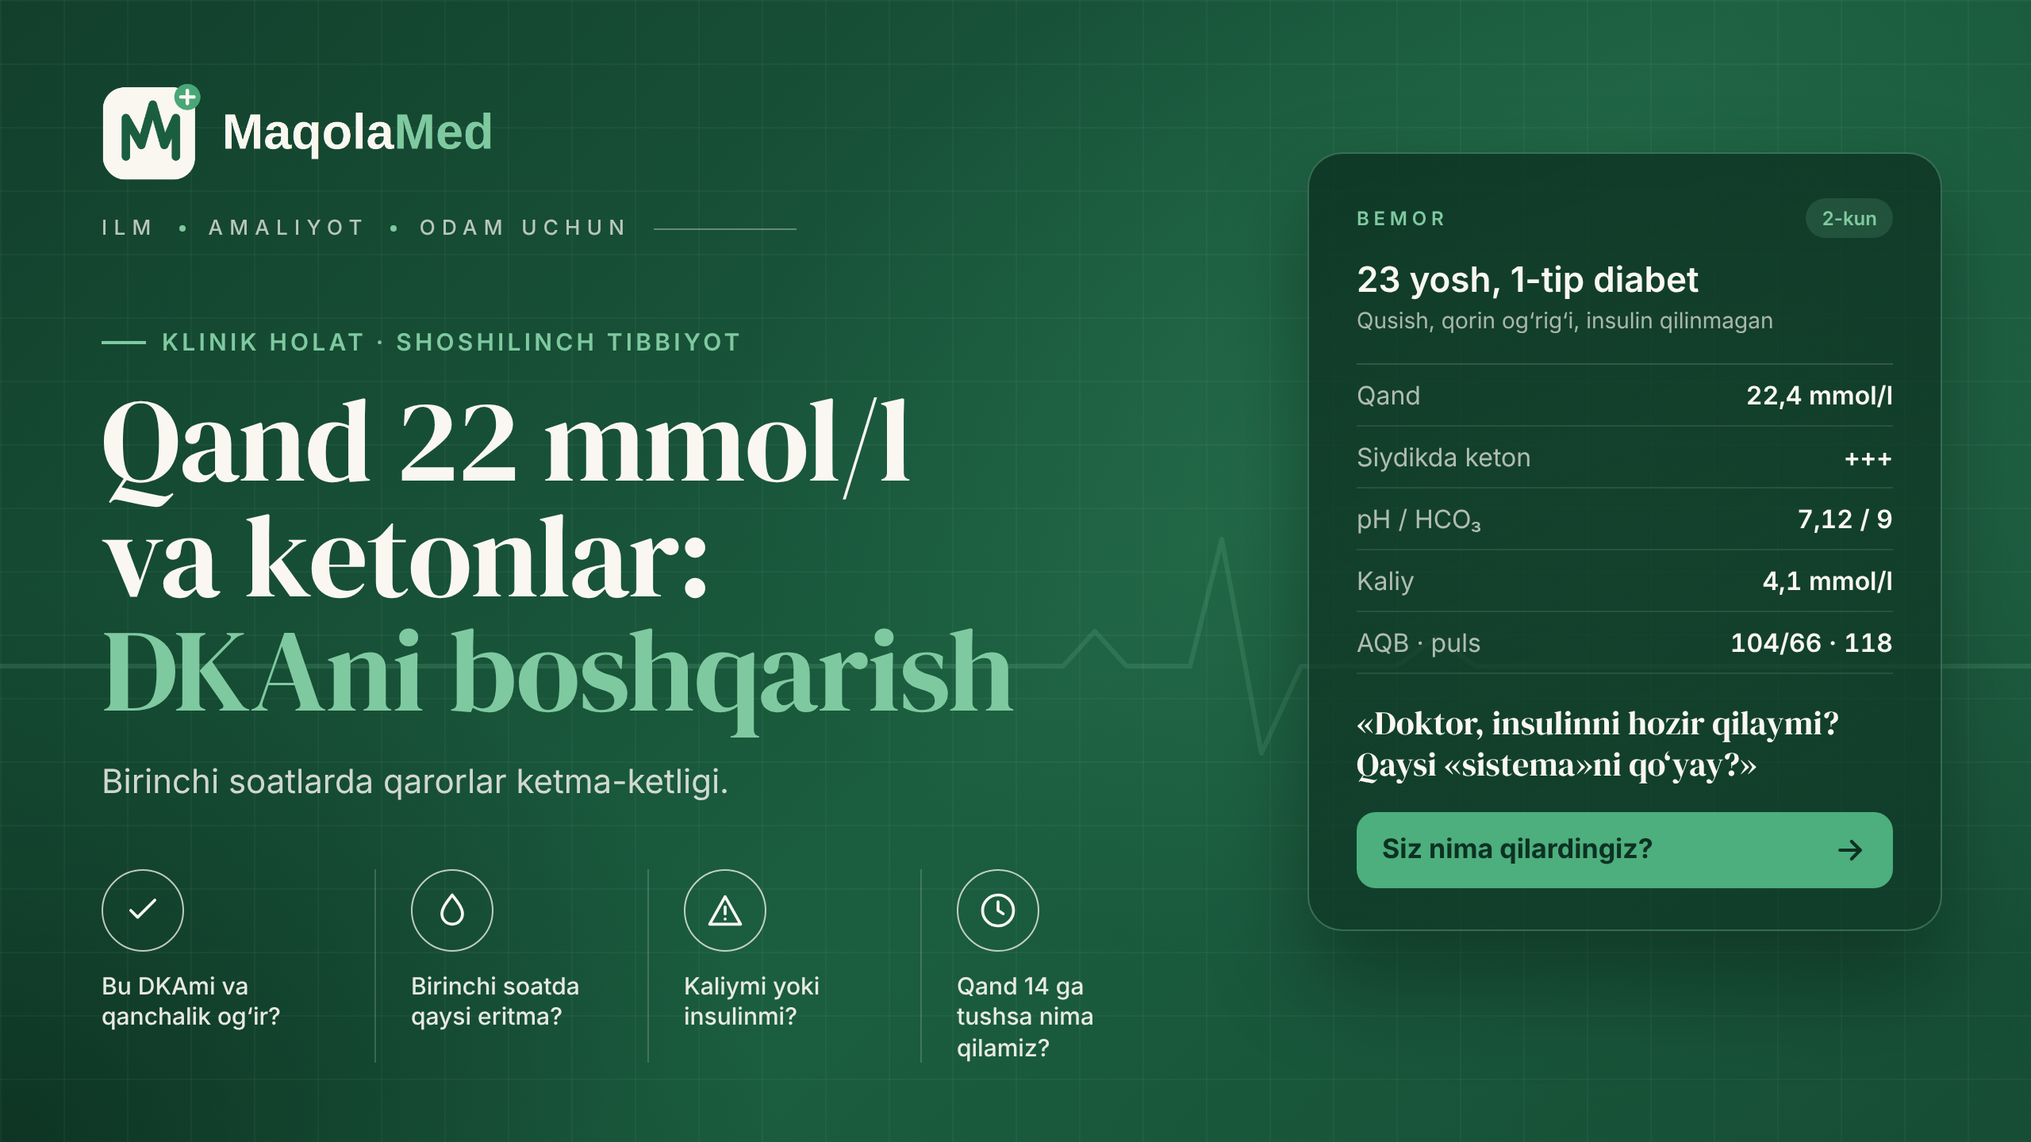
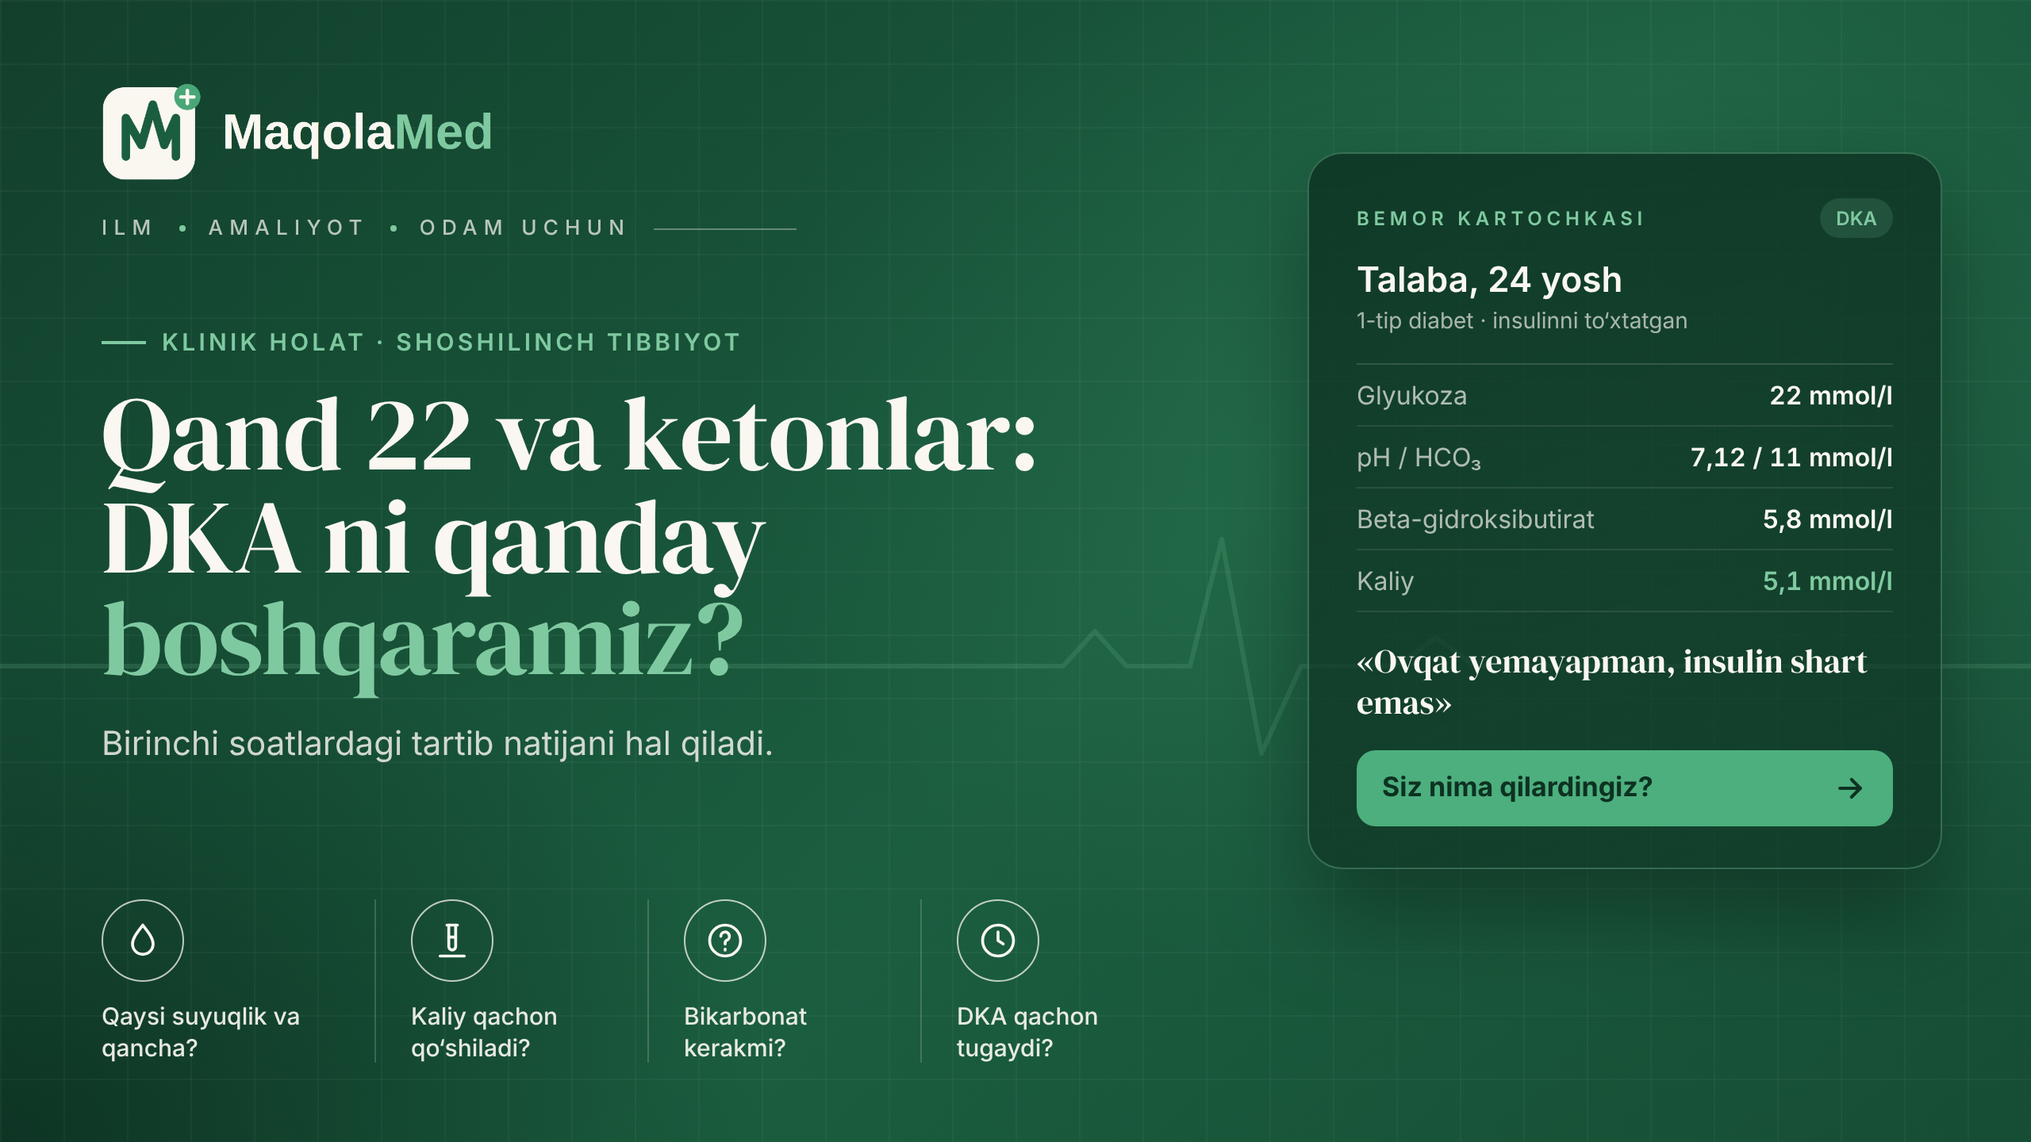
15-dekabr maqolasi qayta yozildi (v2, humanizer): diabetik ketoatsidoz — muqovalar, 1 rasm

diff --git a/_manba/2026-12-15/muqova-instagram-4x5.html b/_manba/2026-12-15/muqova-instagram-4x5.html
@@ -1,0 +1,87 @@
+<!doctype html>
+<html lang="uz">
+<head><base href="file:///home/claude/maqolamed-rasmlar/_shablon/">
+<meta charset="utf-8">
+<style>
+@font-face{font-family:"DM Serif Display";src:url("fonts/dm-serif-display-latin-400-normal.woff2") format("woff2");}
+@font-face{font-family:"DM Serif Display";src:url("fonts/dm-serif-display-latin-ext-400-normal.woff2") format("woff2");unicode-range:U+0100-024F,U+1E00-1EFF;}
+:root{
+  --emerald:#1B5E3F; --deep:#0D3122; --cream:#FAF7F0; --mint:#7FC9A0; --green:#4CAF7D;
+}
+*{margin:0;padding:0;box-sizing:border-box}
+html,body{width:1280px;height:720px;overflow:hidden;background:var(--deep)}
+.cover{position:relative;width:1280px;height:720px;overflow:hidden;font-family:"Inter",sans-serif;color:var(--cream);
+  background:
+    radial-gradient(900px 600px at 78% 40%, rgba(76,175,125,.22), transparent 60%),
+    radial-gradient(700px 500px at 0% 100%, rgba(13,49,34,.9), transparent 70%),
+    linear-gradient(135deg,#123F2C 0%, #1B5E3F 55%, #164D34 100%);}
+.grid{position:absolute;inset:0;background-image:
+    linear-gradient(rgba(250,247,240,.035) 1px,transparent 1px),
+    linear-gradient(90deg,rgba(250,247,240,.035) 1px,transparent 1px);
+  background-size:40px 40px;}
+.ekg{position:absolute;left:0;top:300px;width:1280px;height:200px;opacity:.16}
+.left{position:absolute;left:64px;top:52px;width:690px}
+.brand{display:flex;align-items:center;gap:28px}
+.brand img{height:62px;display:block}
+.tag{display:flex;align-items:center;gap:14px;font-size:13px;letter-spacing:.32em;color:rgba(250,247,240,.72);font-weight:500}
+.tag i{width:4px;height:4px;border-radius:50%;background:var(--mint);display:inline-block}
+.tag .line{width:90px;height:1px;background:rgba(250,247,240,.35)}
+.kicker{margin-top:54px;display:inline-flex;align-items:center;gap:10px;font-size:15px;font-weight:600;letter-spacing:.14em;text-transform:uppercase;color:var(--mint)}
+.kicker span{display:inline-block;width:28px;height:2px;background:var(--mint)}
+h1{margin-top:16px;font-family:"DM Serif Display",serif;font-weight:400;font-size:78px;line-height:.98;letter-spacing:-.01em;color:var(--cream)}
+h1 em{font-style:normal;color:var(--mint)}
+.sub{margin-top:22px;font-size:21px;color:rgba(250,247,240,.82);font-weight:400}
+.points{position:absolute;left:64px;bottom:50px;display:flex;gap:0}
+.pt{width:172px;padding-right:18px;display:flex;flex-direction:column;align-items:flex-start;gap:12px}
+.pt + .pt{padding-left:22px;border-left:1px solid rgba(250,247,240,.18)}
+.ic{width:52px;height:52px;border-radius:50%;border:1.6px solid rgba(250,247,240,.75);display:grid;place-items:center}
+.ic svg{width:26px;height:26px;stroke:var(--cream);fill:none;stroke-width:1.7;stroke-linecap:round;stroke-linejoin:round}
+.pt p{font-size:15px;line-height:1.3;color:rgba(250,247,240,.92);font-weight:500}
+.card{position:absolute;right:56px;top:96px;width:400px;border-radius:22px;padding:28px 30px 26px;
+  background:linear-gradient(160deg,rgba(13,49,34,.82),rgba(13,49,34,.62));
+  border:1px solid rgba(127,201,160,.35);box-shadow:0 30px 60px rgba(0,0,0,.35)}
+.card .ch{display:flex;justify-content:space-between;align-items:center}
+.card .lbl{font-size:12px;letter-spacing:.24em;font-weight:600;color:var(--mint)}
+.card .pill{font-size:12px;font-weight:600;padding:5px 10px;border-radius:999px;background:rgba(127,201,160,.16);color:var(--mint)}
+.card h3{margin-top:14px;font-size:22px;font-weight:600}
+.card h3 small{display:block;margin-top:4px;font-size:14px;font-weight:400;color:rgba(250,247,240,.65)}
+.rows{margin-top:18px;border-top:1px solid rgba(250,247,240,.14)}
+.row{display:flex;justify-content:space-between;padding:9px 0;border-bottom:1px solid rgba(250,247,240,.10);font-size:16px}
+.row span:first-child{color:rgba(250,247,240,.68)}
+.row span:last-child{font-weight:600;font-variant-numeric:tabular-nums}
+.row .ok{color:var(--mint)}
+.quote{margin-top:18px;font-family:"DM Serif Display",serif;font-size:21px;line-height:1.25;color:var(--cream)}
+.ask{margin-top:16px;display:flex;align-items:center;justify-content:space-between;padding:13px 16px;border-radius:12px;background:var(--green);color:#0D3122;font-weight:700;font-size:17px}
+.ask svg{width:22px;height:22px;stroke:#0D3122;fill:none;stroke-width:2.2;stroke-linecap:round;stroke-linejoin:round}
+
+html,body{width:1080px;height:1350px}
+.cover{width:1080px;height:1350px}
+.ekg{top:525px;width:1080px}
+.left{left:72px;top:64px;width:940px}
+.brand img{height:72px}
+h1{font-size:96px;margin-top:18px}
+.kicker{margin-top:56px;font-size:17px}
+.sub{font-size:24px}
+.card{left:72px;right:72px;top:auto;bottom:250px;width:auto;padding:30px 34px}
+.rows{display:grid;grid-template-columns:1fr 1fr;column-gap:40px}
+.quote{font-size:24px}
+.points{left:72px;right:72px;bottom:60px}
+.pt{width:auto;flex:1}
+.pt p{font-size:17px}
+
+
+
+h1{font-size:88px}
+</style>
+</head>
+<body><div class="cover"><div class="grid"></div>
+<svg class="ekg" viewBox="0 0 1280 200" preserveAspectRatio="none"><polyline fill="none" stroke="#7FC9A0" stroke-width="3" stroke-linejoin="round" stroke-linecap="round" points="0,120 640,120 670,120 690,98 710,120 750,120 770,40 795,175 820,120 880,120 905,102 930,120 1280,120"/></svg>
+<div class="left"><div class="brand"><img src="logo_dark_bg.png" alt="MaqolaMed"></div>
+<div class="tag" style="margin-top:22px"><span>ILM</span><i></i><span>AMALIYOT</span><i></i><span>ODAM UCHUN</span><span class="line"></span></div>
+<div class="kicker"><span></span>Klinik holat · Shoshilinch tibbiyot</div>
+<h1>Qand 22 va ketonlar:<br>DKA ni qanday<br><em>boshqaramiz?</em></h1>
+<div class="sub">Birinchi soatlardagi tartib natijani hal qiladi.</div></div>
+<div class="points"><div class="pt"><div class="ic"><svg viewBox="0 0 24 24"><path d="M12 3c3 4 6 7.5 6 11a6 6 0 0 1-12 0c0-3.5 3-7 6-11z"/></svg></div><p>Qaysi suyuqlik va qancha?</p></div><div class="pt"><div class="ic"><svg viewBox="0 0 24 24"><path d="M9 3h6"/><path d="M10 3v12.5a2 2 0 0 0 4 0V3"/><path d="M10 10h4"/><path d="M5 21h14"/></svg></div><p>Kaliy qachon qo‘shiladi?</p></div><div class="pt"><div class="ic"><svg viewBox="0 0 24 24"><circle cx="12" cy="12" r="9"/><path d="M9.5 9.5a2.5 2.5 0 1 1 3.5 2.3c-.7.3-1 .8-1 1.5v.7"/><path d="M12 17v.5"/></svg></div><p>Bikarbonat kerakmi?</p></div><div class="pt"><div class="ic"><svg viewBox="0 0 24 24"><circle cx="12" cy="12" r="9"/><path d="M12 7v5l3 2"/></svg></div><p>DKA qachon tugaydi?</p></div></div>
+<div class="card"><div class="ch"><span class="lbl">BEMOR KARTOCHKASI</span><span class="pill">DKA</span></div>
+<h3>Talaba, 24 yosh<small>1-tip diabet · insulinni to‘xtatgan</small></h3><div class="rows"><div class="row"><span>Glyukoza</span><span class="">22 mmol/l</span></div><div class="row"><span>pH / HCO₃</span><span class="">7,12 / 11 mmol/l</span></div><div class="row"><span>Beta-gidroksibutirat</span><span class="">5,8 mmol/l</span></div><div class="row"><span>Kaliy</span><span class="ok">5,1 mmol/l</span></div></div><div class="quote">«Ovqat yemayapman, insulin shart emas»</div><div class="ask">Siz nima qilardingiz?<svg viewBox="0 0 24 24"><path d="M5 12h14"/><path d="M13 6l6 6-6 6"/></svg></div></div>
+</div></body></html>

diff --git a/_manba/2026-12-15/muqova-16x9.html b/_manba/2026-12-15/muqova-16x9.html
@@ -1,0 +1,70 @@
+<!doctype html>
+<html lang="uz">
+<head><base href="file:///home/claude/maqolamed-rasmlar/_shablon/">
+<meta charset="utf-8">
+<style>
+@font-face{font-family:"DM Serif Display";src:url("fonts/dm-serif-display-latin-400-normal.woff2") format("woff2");}
+@font-face{font-family:"DM Serif Display";src:url("fonts/dm-serif-display-latin-ext-400-normal.woff2") format("woff2");unicode-range:U+0100-024F,U+1E00-1EFF;}
+:root{
+  --emerald:#1B5E3F; --deep:#0D3122; --cream:#FAF7F0; --mint:#7FC9A0; --green:#4CAF7D;
+}
+*{margin:0;padding:0;box-sizing:border-box}
+html,body{width:1280px;height:720px;overflow:hidden;background:var(--deep)}
+.cover{position:relative;width:1280px;height:720px;overflow:hidden;font-family:"Inter",sans-serif;color:var(--cream);
+  background:
+    radial-gradient(900px 600px at 78% 40%, rgba(76,175,125,.22), transparent 60%),
+    radial-gradient(700px 500px at 0% 100%, rgba(13,49,34,.9), transparent 70%),
+    linear-gradient(135deg,#123F2C 0%, #1B5E3F 55%, #164D34 100%);}
+.grid{position:absolute;inset:0;background-image:
+    linear-gradient(rgba(250,247,240,.035) 1px,transparent 1px),
+    linear-gradient(90deg,rgba(250,247,240,.035) 1px,transparent 1px);
+  background-size:40px 40px;}
+.ekg{position:absolute;left:0;top:300px;width:1280px;height:200px;opacity:.16}
+.left{position:absolute;left:64px;top:52px;width:690px}
+.brand{display:flex;align-items:center;gap:28px}
+.brand img{height:62px;display:block}
+.tag{display:flex;align-items:center;gap:14px;font-size:13px;letter-spacing:.32em;color:rgba(250,247,240,.72);font-weight:500}
+.tag i{width:4px;height:4px;border-radius:50%;background:var(--mint);display:inline-block}
+.tag .line{width:90px;height:1px;background:rgba(250,247,240,.35)}
+.kicker{margin-top:54px;display:inline-flex;align-items:center;gap:10px;font-size:15px;font-weight:600;letter-spacing:.14em;text-transform:uppercase;color:var(--mint)}
+.kicker span{display:inline-block;width:28px;height:2px;background:var(--mint)}
+h1{margin-top:16px;font-family:"DM Serif Display",serif;font-weight:400;font-size:78px;line-height:.98;letter-spacing:-.01em;color:var(--cream)}
+h1 em{font-style:normal;color:var(--mint)}
+.sub{margin-top:22px;font-size:21px;color:rgba(250,247,240,.82);font-weight:400}
+.points{position:absolute;left:64px;bottom:50px;display:flex;gap:0}
+.pt{width:172px;padding-right:18px;display:flex;flex-direction:column;align-items:flex-start;gap:12px}
+.pt + .pt{padding-left:22px;border-left:1px solid rgba(250,247,240,.18)}
+.ic{width:52px;height:52px;border-radius:50%;border:1.6px solid rgba(250,247,240,.75);display:grid;place-items:center}
+.ic svg{width:26px;height:26px;stroke:var(--cream);fill:none;stroke-width:1.7;stroke-linecap:round;stroke-linejoin:round}
+.pt p{font-size:15px;line-height:1.3;color:rgba(250,247,240,.92);font-weight:500}
+.card{position:absolute;right:56px;top:96px;width:400px;border-radius:22px;padding:28px 30px 26px;
+  background:linear-gradient(160deg,rgba(13,49,34,.82),rgba(13,49,34,.62));
+  border:1px solid rgba(127,201,160,.35);box-shadow:0 30px 60px rgba(0,0,0,.35)}
+.card .ch{display:flex;justify-content:space-between;align-items:center}
+.card .lbl{font-size:12px;letter-spacing:.24em;font-weight:600;color:var(--mint)}
+.card .pill{font-size:12px;font-weight:600;padding:5px 10px;border-radius:999px;background:rgba(127,201,160,.16);color:var(--mint)}
+.card h3{margin-top:14px;font-size:22px;font-weight:600}
+.card h3 small{display:block;margin-top:4px;font-size:14px;font-weight:400;color:rgba(250,247,240,.65)}
+.rows{margin-top:18px;border-top:1px solid rgba(250,247,240,.14)}
+.row{display:flex;justify-content:space-between;padding:9px 0;border-bottom:1px solid rgba(250,247,240,.10);font-size:16px}
+.row span:first-child{color:rgba(250,247,240,.68)}
+.row span:last-child{font-weight:600;font-variant-numeric:tabular-nums}
+.row .ok{color:var(--mint)}
+.quote{margin-top:18px;font-family:"DM Serif Display",serif;font-size:21px;line-height:1.25;color:var(--cream)}
+.ask{margin-top:16px;display:flex;align-items:center;justify-content:space-between;padding:13px 16px;border-radius:12px;background:var(--green);color:#0D3122;font-weight:700;font-size:17px}
+.ask svg{width:22px;height:22px;stroke:#0D3122;fill:none;stroke-width:2.2;stroke-linecap:round;stroke-linejoin:round}
+
+h1{font-size:66px}
+</style>
+</head>
+<body><div class="cover"><div class="grid"></div>
+<svg class="ekg" viewBox="0 0 1280 200" preserveAspectRatio="none"><polyline fill="none" stroke="#7FC9A0" stroke-width="3" stroke-linejoin="round" stroke-linecap="round" points="0,120 640,120 670,120 690,98 710,120 750,120 770,40 795,175 820,120 880,120 905,102 930,120 1280,120"/></svg>
+<div class="left"><div class="brand"><img src="logo_dark_bg.png" alt="MaqolaMed"></div>
+<div class="tag" style="margin-top:22px"><span>ILM</span><i></i><span>AMALIYOT</span><i></i><span>ODAM UCHUN</span><span class="line"></span></div>
+<div class="kicker"><span></span>Klinik holat · Shoshilinch tibbiyot</div>
+<h1>Qand 22 va ketonlar:<br>DKA ni qanday<br><em>boshqaramiz?</em></h1>
+<div class="sub">Birinchi soatlardagi tartib natijani hal qiladi.</div></div>
+<div class="points"><div class="pt"><div class="ic"><svg viewBox="0 0 24 24"><path d="M12 3c3 4 6 7.5 6 11a6 6 0 0 1-12 0c0-3.5 3-7 6-11z"/></svg></div><p>Qaysi suyuqlik va qancha?</p></div><div class="pt"><div class="ic"><svg viewBox="0 0 24 24"><path d="M9 3h6"/><path d="M10 3v12.5a2 2 0 0 0 4 0V3"/><path d="M10 10h4"/><path d="M5 21h14"/></svg></div><p>Kaliy qachon qo‘shiladi?</p></div><div class="pt"><div class="ic"><svg viewBox="0 0 24 24"><circle cx="12" cy="12" r="9"/><path d="M9.5 9.5a2.5 2.5 0 1 1 3.5 2.3c-.7.3-1 .8-1 1.5v.7"/><path d="M12 17v.5"/></svg></div><p>Bikarbonat kerakmi?</p></div><div class="pt"><div class="ic"><svg viewBox="0 0 24 24"><circle cx="12" cy="12" r="9"/><path d="M12 7v5l3 2"/></svg></div><p>DKA qachon tugaydi?</p></div></div>
+<div class="card"><div class="ch"><span class="lbl">BEMOR KARTOCHKASI</span><span class="pill">DKA</span></div>
+<h3>Talaba, 24 yosh<small>1-tip diabet · insulinni to‘xtatgan</small></h3><div class="rows"><div class="row"><span>Glyukoza</span><span class="">22 mmol/l</span></div><div class="row"><span>pH / HCO₃</span><span class="">7,12 / 11 mmol/l</span></div><div class="row"><span>Beta-gidroksibutirat</span><span class="">5,8 mmol/l</span></div><div class="row"><span>Kaliy</span><span class="ok">5,1 mmol/l</span></div></div><div class="quote">«Ovqat yemayapman, insulin shart emas»</div><div class="ask">Siz nima qilardingiz?<svg viewBox="0 0 24 24"><path d="M5 12h14"/><path d="M13 6l6 6-6 6"/></svg></div></div>
+</div></body></html>

diff --git a/_manba/2026-12-15/1-rasm.html b/_manba/2026-12-15/1-rasm.html
@@ -1,0 +1,53 @@
+<!doctype html><html lang="uz"><head><meta charset="utf-8"><base href="file:///home/claude/maqolamed-rasmlar/_shablon/">
+<style>
+@font-face{font-family:"DM Serif Display";src:url("fonts/dm-serif-display-latin-400-normal.woff2") format("woff2");}
+@font-face{font-family:"DM Serif Display";src:url("fonts/dm-serif-display-latin-ext-400-normal.woff2") format("woff2");unicode-range:U+0100-024F,U+1E00-1EFF;}
+:root{--emerald:#1B5E3F;--deep:#0D3122;--cream:#FAF7F0;--mint:#7FC9A0;--green:#4CAF7D;--ink:#17322A;--muted:#5C6F66;--amber:#C98A2E;--amberbg:#FBF1E1;--red:#B5513F;--redbg:#F8E7E2;--tint:#E6F3EC}
+*{margin:0;padding:0;box-sizing:border-box}
+html,body{width:1280px;height:var(--H,900px);background:var(--cream);overflow:hidden}
+.fig{position:relative;width:1280px;height:var(--H,900px);padding:44px 56px;font-family:"Inter",sans-serif;color:var(--ink)}
+.top{display:flex;justify-content:space-between;align-items:flex-start;margin-bottom:28px}
+h1{font-family:"DM Serif Display",serif;font-weight:400;font-size:40px;line-height:1.05;color:var(--deep)}
+h1 em{font-style:normal;color:var(--green)}
+.brand{display:flex;align-items:center;gap:10px;font-weight:700;font-size:20px;color:var(--emerald)}
+.brand img{height:34px}.brand b{color:var(--green);font-weight:700}
+table{width:100%;border-collapse:separate;border-spacing:0 8px;font-size:16px;line-height:1.35}
+th{text-align:left;font-size:12px;letter-spacing:.14em;text-transform:uppercase;color:var(--muted);padding:0 18px 2px;font-weight:700}
+td{background:#fff;padding:13px 18px;vertical-align:middle}
+td:first-child{border-radius:12px 0 0 12px;font-weight:700;color:var(--deep)}
+td:last-child{border-radius:0 12px 12px 0}
+td.new{background:var(--tint)} td.same{background:#F1EEE6;color:var(--muted)}
+td.warn{background:var(--redbg)}
+.badge{display:inline-block;font-size:11px;font-weight:700;letter-spacing:.08em;padding:4px 9px;border-radius:999px;margin-right:8px;vertical-align:1px}
+.b-new{background:var(--emerald);color:var(--cream)} .b-same{background:#E2DED3;color:var(--muted)} .b-red{background:var(--red);color:#fff} .b-amb{background:var(--amber);color:#fff}
+.muted{color:var(--muted)}
+.node{border-radius:14px;padding:14px 18px;font-size:16px;line-height:1.38}
+.node b{display:block;font-size:17px;margin-bottom:3px}
+.n-dark{background:var(--emerald);color:var(--cream)} .n-deep{background:var(--deep);color:var(--cream)}
+.n-white{background:#fff;border:1.5px solid #BFDCCB} .n-amb{background:#fff;border:1.5px solid #EBD3A9} .n-red{background:var(--redbg);border:1.5px solid #E8C3BA}
+.tagc{display:inline-block;font-size:12px;font-weight:700;letter-spacing:.12em;text-transform:uppercase;padding:6px 12px;border-radius:999px}
+.t-g{background:#DDEFE5;color:var(--emerald)} .t-a{background:var(--amberbg);color:#8A5A14} .t-r{background:var(--redbg);color:var(--red)}
+.note{position:absolute;left:56px;right:56px;bottom:40px;padding:14px 18px;border-radius:12px;background:#EEF2EE;font-size:15px;line-height:1.4}
+.note b{color:var(--deep)}
+.src{position:absolute;right:56px;bottom:12px;font-size:12px;color:var(--muted)}
+.arrow{stroke:var(--emerald);stroke-width:2.2;fill:none}
+</style></head><body><style>:root{--H:600px}
+.cols{display:grid;grid-template-columns:repeat(4,1fr);gap:14px}
+.col{border-radius:16px;padding:16px 18px;font-size:15px;line-height:1.4}
+.col h2{font-size:12px;letter-spacing:.14em;text-transform:uppercase;margin-bottom:8px}
+.col ul{list-style:none}.col li{padding:5px 0;border-bottom:1px solid rgba(0,0,0,.07)}.col li:last-child{border-bottom:0}
+.c1{background:var(--deep);color:var(--cream)}.c1 h2{color:var(--mint)}.c1 li{border-color:rgba(255,255,255,.12)}
+.c2,.c4{background:#fff;border:1.5px solid #BFDCCB}.c2 h2,.c4 h2{color:var(--emerald)}
+.c3{background:var(--amberbg);border:1.5px solid #EBD3A9}.c3 h2{color:#8A5A14}
+.kbar{margin-top:16px;display:grid;grid-template-columns:repeat(3,1fr);gap:12px}
+.k{border-radius:12px;padding:12px 16px;font-size:15px}.k b{display:block;font-size:20px;margin-bottom:2px}
+.k1{background:var(--redbg);border:1.5px solid #E8C3BA}.k1 b{color:var(--red)}.k2{background:#FBF1E1}.k2 b{color:#8A5A14}.k3{background:#E6F3EC}.k3 b{color:var(--emerald)}
+</style>
+<div class="fig"><div class="top"><h1>Kattalarda diabetik ketoatsidoz:<br><em>birinchi soatlardan tugashgacha</em></h1><div class="brand"><img src="icon.png" alt=""><span>Maqola<b>Med</b></span></div></div>
+<div class="cols">
+<div class="col c1"><h2>1. Tashxis [1]</h2><ul><li>Glyukoza ≥11,1 mmol/l yoki diabet tarixi</li><li>Beta-gidroksibutirat ≥3,0 mmol/l (siydikda ≥2+)</li><li>pH &lt;7,3 va/yoki HCO₃ &lt;18 mmol/l</li><li>SGLT2i: glyukoza normal bo‘lishi mumkin; dorini to‘xtatish</li></ul></div>
+<div class="col c2"><h2>2. Suyuqlik [1]</h2><ul><li>0,9% NaCl yoki muvozanatlangan kristalloid</li><li>500–1 000 ml/soat, dastlabki 2–4 soat</li><li>Keksa, yurak yetishmovchiligi, dializ: 250 ml bolyuslar</li></ul></div>
+<div class="col c3"><h2>3. Insulin [1]</h2><ul><li>V/i qat’iy tezlik: 0,1 XB/kg/soat</li><li>Glyukoza &lt;13,9 mmol/l: 5–10% glyukoza qo‘shish, insulin 0,05 XB/kg/soat</li><li>Bikarbonat faqat pH &lt;7,0 [1, 5]</li></ul></div>
+<div class="col c4"><h2>4. Tugash [1, 2]</h2><ul><li>Ketonlar &lt;0,6 mmol/l</li><li>pH ≥7,3 yoki HCO₃ ≥18 mmol/l</li><li>Teri ostiga insulin infuziyani to‘xtatishdan 1–2 soat oldin</li><li>Sababni davolash, «kasal kunlari» qoidalari</li></ul></div></div>
+<div class="kbar"><div class="k k1"><b>K⁺ &lt;3,5 mmol/l</b>Insulinni kechiktirish; kaliy 10 mmol/soat [1]</div><div class="k k2"><b>K⁺ 3,5–5,0 mmol/l</b>Har litr suyuqlikka 20–30 mmol kaliy, maqsad 4–5 [1]</div><div class="k k3"><b>K⁺ &gt;5,0 mmol/l</b>Kaliy qo‘shilmaydi, insulin boshlanadi; 1–2 soatda qayta tekshirish</div></div>
+<div class="src">Raqamlar maqoladagi manbalar ro‘yxatiga ishora qiladi.</div></div></body></html>
